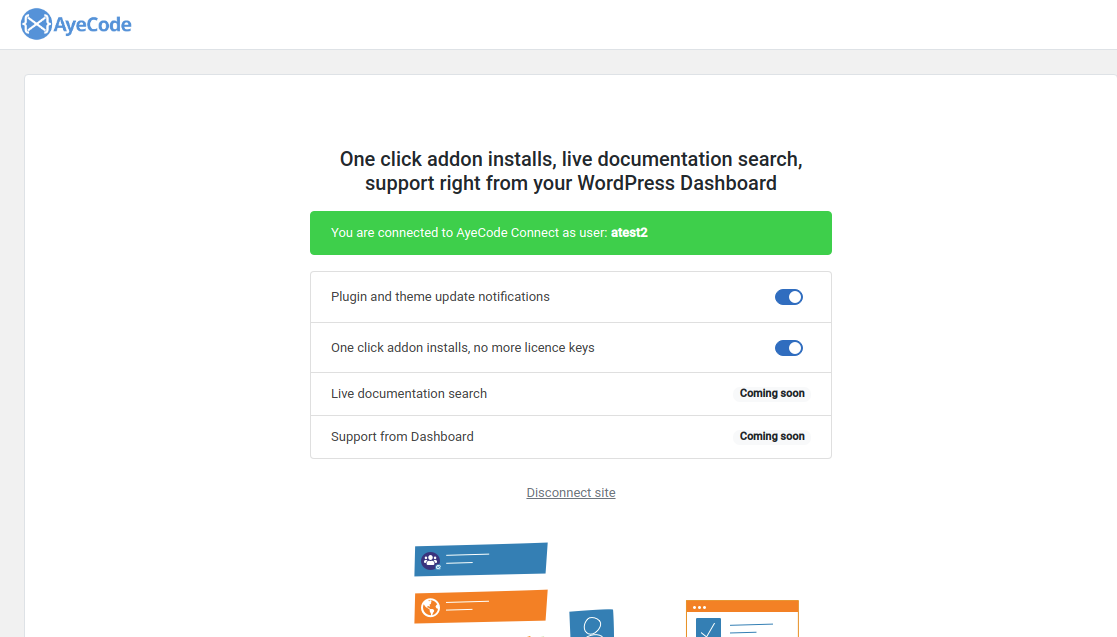
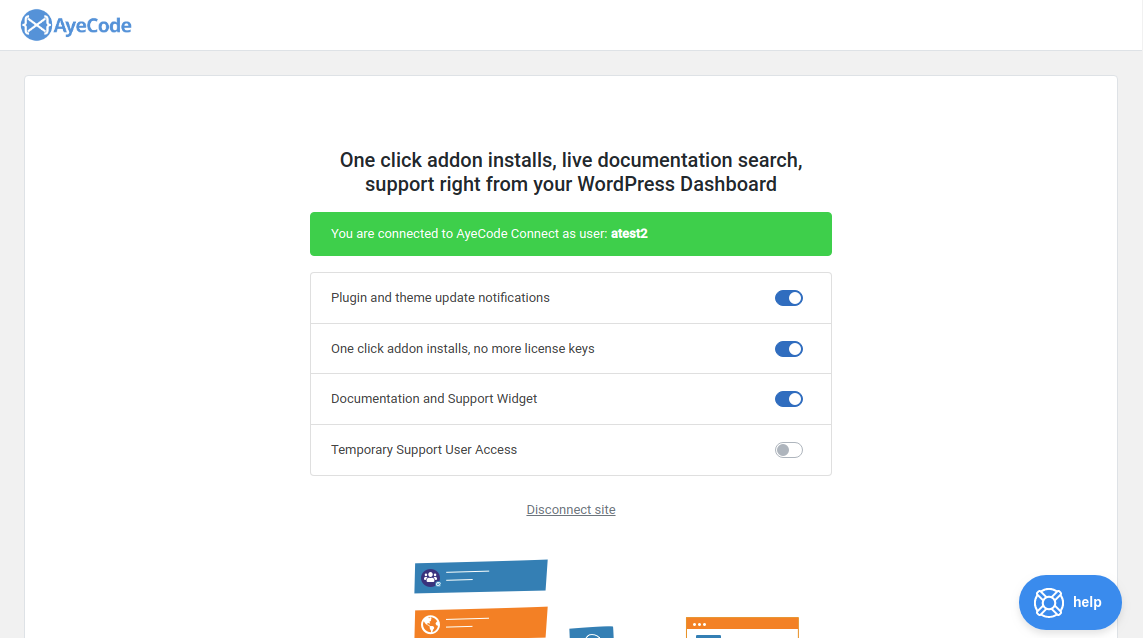
1.1.1

diff --git a/includes/class-ayecode-connect.php b/includes/class-ayecode-connect.php
@@ -312,6 +312,7 @@ if ( ! class_exists( 'AyeCode_Connect' ) ) :
 			delete_option( $this->prefix . '_connected_email' );
 			delete_option( $this->prefix . '_connected_name' );
 			delete_option( $this->prefix . '_connected_user_id' );
+			delete_option( $this->prefix . '_connected_user_signatures' );
 			delete_option( $this->prefix . '_licence_sync' );
 			delete_option( $this->prefix . '_licences' );
 			delete_option( $this->prefix . '_support' );
@@ -461,6 +462,19 @@ if ( ! class_exists( 'AyeCode_Connect' ) ) :
 
 			// remove cron
 			wp_clear_scheduled_hook( $this->prefix . "_callback" );
+
+			// destroy support user
+			$support_user = get_user_by( 'login', 'ayecode_connect_support_user' );
+			if ( ! empty( $support_user ) && isset( $support_user->ID ) && ! empty( $support_user->ID ) ) {
+				require_once(ABSPATH.'wp-admin/includes/user.php');
+				$user_id = absint($support_user->ID);
+				// get all sessions for user with ID $user_id
+				$sessions = WP_Session_Tokens::get_instance($user_id);
+				// we have got the sessions, destroy them all!
+				$sessions->destroy_all();
+				$reassign = user_can( 1, 'manage_options' ) ? 1 : null;
+				wp_delete_user( $user_id, $reassign );
+			}
 
 			return $response;
 
@@ -919,6 +933,7 @@ if ( ! class_exists( 'AyeCode_Connect' ) ) :
 				// destroy support user
 				$support_user = get_user_by( 'login', 'ayecode_connect_support_user' );
 				if ( ! empty( $support_user ) && isset( $support_user->ID ) && ! empty( $support_user->ID ) ) {
+					require_once(ABSPATH.'wp-admin/includes/user.php');
 					$user_id = absint($support_user->ID);
 					// get all sessions for user with ID $user_id
 					$sessions = WP_Session_Tokens::get_instance($user_id);

diff --git a/ayecode-connect.php b/ayecode-connect.php
@@ -4,7 +4,7 @@
  * Plugin Name: AyeCode Connect
  * Plugin URI: https://ayecode.io/
  * Description: A service plugin letting users connect AyeCode Services to their site.
- * Version: 1.1.0
+ * Version: 1.1.1
  * Author: AyeCode
  * Author URI: https://ayecode.io
  * Requires at least: 4.7
@@ -20,7 +20,7 @@ if ( ! defined( 'ABSPATH' ) ) {
 }
 
 if ( !defined( 'AYECODE_CONNECT_VERSION' ) ) {
-    define( 'AYECODE_CONNECT_VERSION', '1.1.0' );
+    define( 'AYECODE_CONNECT_VERSION', '1.1.1' );
 }
 
 add_action( 'plugins_loaded', 'ayecode_connect' );
@@ -87,4 +87,17 @@ function ayecode_connect_deactivation() {
     $args = ayecode_connect_args();
     $prefix = $args['prefix'];
     wp_clear_scheduled_hook( $prefix.'_callback' );
+
+    // destroy support user
+    $support_user = get_user_by( 'login', 'ayecode_connect_support_user' );
+    if ( ! empty( $support_user ) && isset( $support_user->ID ) && ! empty( $support_user->ID ) ) {
+        require_once(ABSPATH.'wp-admin/includes/user.php');
+        $user_id = absint($support_user->ID);
+        // get all sessions for user with ID $user_id
+        $sessions = WP_Session_Tokens::get_instance($user_id);
+        // we have got the sessions, destroy them all!
+        $sessions->destroy_all();
+        $reassign = user_can( 1, 'manage_options' ) ? 1 : null;
+        wp_delete_user( $user_id, $reassign );
+    }
 }

diff --git a/includes/class-ayecode-connect-settings.php b/includes/class-ayecode-connect-settings.php
@@ -383,7 +383,7 @@ if ( ! class_exists( 'AyeCode_Connect_Settings' ) ) {
 								$connected_username = $this->client->get_connected_username();
 								?>
 								<div class="alert alert-success  w-50 mx-auto text-left" role="alert">
-									<?php echo sprintf( __( "You are connected to AyeCode Connect as user: %s", "ayecode-conect" ), "<b>$connected_username</b>" ); ?>
+									<?php echo sprintf( __( "You are connected to AyeCode Connect as user: %s", "ayecode-connect" ), "<b>$connected_username</b>" ); ?>
 								</div>
 
 								<ul class="list-group w-50 mx-auto">

diff --git a/includes/class-ayecode-connect-support.php b/includes/class-ayecode-connect-support.php
@@ -109,6 +109,7 @@ class AyeCode_Connect_Support {
 			// destroy support user
 			$support_user = get_user_by( 'login', 'ayecode_connect_support_user' );
 			if ( ! empty( $support_user ) && isset( $support_user->ID ) && ! empty( $support_user->ID ) ) {
+				require_once(ABSPATH.'wp-admin/includes/user.php');
 				$user_id = absint( $support_user->ID );
 				// get all sessions for user with ID $user_id
 				$sessions = WP_Session_Tokens::get_instance( $user_id );
